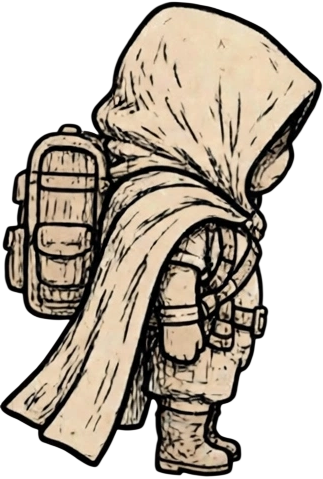
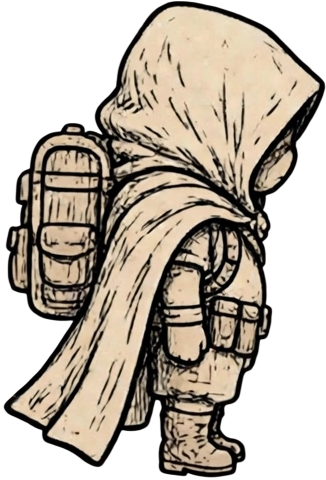
-

Changed region(s): [[0.0, 0.0, 1.0, 0.9937], [0.6811, 0.0877, 0.7121, 0.1169]]

diff --git a/Movimiento con cambio de sprite (avanzado).py b/Movimiento con cambio de sprite (avanzado).py
@@ -1,0 +1,180 @@
+from pathlib import Path
+import pygame, sys
+
+pygame.init()
+reloj = pygame.time.Clock()
+
+# Configuración
+ancho_pantalla = 1360
+alto_pantalla = 820
+tamaño_pantalla = (ancho_pantalla, alto_pantalla)
+
+pantalla = pygame.display.set_mode(tamaño_pantalla)
+pygame.display.set_caption("Prueba Pygame")
+
+CARPETA_PROYECTO = Path(__file__).parent
+CARPETA_IMAGENES = CARPETA_PROYECTO / "images"
+
+aventurero_abajo = pygame.image.load(CARPETA_IMAGENES/"Aventurero_abajo.png").convert_alpha()
+aventurero_abajo_1 = pygame.image.load(CARPETA_IMAGENES/"Aventurero_abajo_1.png").convert_alpha()
+aventurero_abajo_2 = pygame.image.load(CARPETA_IMAGENES/"Aventurero_abajo_2.png").convert_alpha()
+aventurero_abajo_3 = pygame.image.load(CARPETA_IMAGENES/"Aventurero_abajo_3.png").convert_alpha()
+aventurero_abajo_4 = pygame.image.load(CARPETA_IMAGENES/"Aventurero_abajo_4.png").convert_alpha()
+
+imagenes_abajo = [
+    aventurero_abajo,
+    aventurero_abajo_1,
+    aventurero_abajo_2,
+    aventurero_abajo_3,
+    aventurero_abajo_4
+]
+
+aventurero_arriba = pygame.image.load(CARPETA_IMAGENES/"Aventurero_arriba.png").convert_alpha()
+aventurero_arriba_1 = pygame.image.load(CARPETA_IMAGENES/"Aventurero_arriba_1.png").convert_alpha()
+aventurero_arriba_2 = pygame.image.load(CARPETA_IMAGENES/"Aventurero_arriba_2.png").convert_alpha()
+aventurero_arriba_3 = pygame.image.load(CARPETA_IMAGENES/"Aventurero_arriba_3.png").convert_alpha()
+aventurero_arriba_4 = pygame.image.load(CARPETA_IMAGENES/"Aventurero_arriba_4.png").convert_alpha()
+
+imagenes_arriba = [
+    aventurero_arriba,
+    aventurero_arriba_1,
+    aventurero_arriba_2,
+    aventurero_arriba_3,
+    aventurero_arriba_4
+]
+
+aventurero_izquierda = pygame.image.load(CARPETA_IMAGENES/"Aventurero_izquierda.png").convert_alpha()
+aventurero_izquierda_1 = pygame.image.load(CARPETA_IMAGENES/"Aventurero_izquierda_1.png").convert_alpha()
+aventurero_izquierda_2 = pygame.image.load(CARPETA_IMAGENES/"Aventurero_izquierda_2.png").convert_alpha()
+aventurero_izquierda_3 = pygame.image.load(CARPETA_IMAGENES/"Aventurero_izquierda_3.png").convert_alpha()
+aventurero_izquierda_4 = pygame.image.load(CARPETA_IMAGENES/"Aventurero_izquierda_4.png").convert_alpha()
+
+imagenes_izquierda = [
+    aventurero_izquierda,
+    aventurero_izquierda_1,
+    aventurero_izquierda_2,
+    aventurero_izquierda_3,
+    aventurero_izquierda_4
+]
+
+aventurero_derecha = pygame.image.load(CARPETA_IMAGENES/"Aventurero_derecha.png").convert_alpha()
+aventurero_derecha_1 = pygame.image.load(CARPETA_IMAGENES/"Aventurero_derecha_1.png").convert_alpha()
+aventurero_derecha_2 = pygame.image.load(CARPETA_IMAGENES/"Aventurero_derecha_2.png").convert_alpha()
+aventurero_derecha_3 = pygame.image.load(CARPETA_IMAGENES/"Aventurero_derecha_3.png").convert_alpha()
+aventurero_derecha_4 = pygame.image.load(CARPETA_IMAGENES/"Aventurero_derecha_4.png").convert_alpha()
+
+imagenes_derecha = [
+    aventurero_derecha,
+    aventurero_derecha_1,
+    aventurero_derecha_2,
+    aventurero_derecha_3,
+    aventurero_derecha_4
+]
+
+imagenes_abajo = [pygame.transform.scale_by(imagen, 0.3) for imagen in imagenes_abajo]
+imagenes_arriba = [pygame.transform.scale_by(imagen, 0.3) for imagen in imagenes_arriba]
+imagenes_izquierda = [pygame.transform.scale_by(imagen, 0.3) for imagen in imagenes_izquierda]
+imagenes_derecha = [pygame.transform.scale_by(imagen, 0.3) for imagen in imagenes_derecha]
+
+imagenes_jugador = {
+    "derecha" : imagenes_derecha,
+    "izquierda" : imagenes_izquierda,
+    "arriba" : imagenes_arriba,
+    "abajo" : imagenes_abajo
+}
+
+class Jugador(pygame.sprite.Sprite):
+    def __init__(self, imagenes, coordenada_x, coordenada_y):
+        super().__init__()
+        self.imagenes = imagenes
+        
+        self.direccion = "abajo"
+        
+        self.frame = 0
+        self.contador_animacion = 0
+        
+        self.image = self.imagenes[self.direccion][self.frame]
+        
+        self.rect = self.image.get_rect()
+        self.rect.topleft = (coordenada_x, coordenada_y)
+        
+        self.velocidad = 5
+    
+    def cambiar_direccion(self, nueva_direccion):
+        if self.direccion != nueva_direccion:
+            
+            self.direccion = nueva_direccion
+            self.frame = 0
+            
+    def animar(self):
+        self.contador_animacion += 1
+        
+        if self.contador_animacion >= 10:
+            
+            self.frame += 1
+            self.contador_animacion = 0
+            
+            if self.frame >= len(self.imagenes[self.direccion]):
+                self.frame = 0
+        
+        self.image = self.imagenes[self.direccion][self.frame]
+
+    def mover(self, teclas):
+        
+        moviendose = False
+        
+        if teclas[pygame.K_RIGHT]:
+            self.rect.x += self.velocidad
+            self.cambiar_direccion("derecha")
+            moviendose = True
+
+        elif teclas[pygame.K_LEFT]:
+            self.rect.x -= self.velocidad
+            self.cambiar_direccion("izquierda")
+            moviendose = True
+            
+        elif teclas[pygame.K_UP]:
+            self.rect.y -= self.velocidad
+            self.cambiar_direccion("arriba")
+            moviendose = True
+            
+        elif teclas[pygame.K_DOWN]:
+            self.rect.y += self.velocidad
+            self.cambiar_direccion("abajo")
+            moviendose = True
+        
+        if moviendose:
+            self.animar()
+        
+        else:
+            self.frame = 0
+            self.image = self.imagenes[self.direccion][self.frame]
+        
+jugador = Jugador(imagenes_jugador, 500, 500)
+
+jugadores = pygame.sprite.Group()
+jugadores.add(jugador)
+
+encendido = True
+
+while encendido:
+
+    for event in pygame.event.get():
+
+        if event.type == pygame.QUIT:
+            encendido = False
+
+    teclas = pygame.key.get_pressed()
+
+    jugador.mover(teclas)
+
+    pantalla.fill((0, 0, 0))
+
+    jugadores.draw(pantalla)
+
+    pygame.display.flip()
+
+    reloj.tick(60)
+
+
+pygame.quit()
